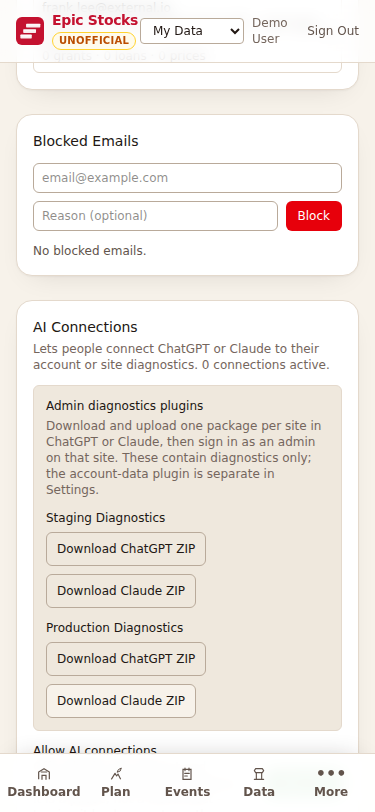
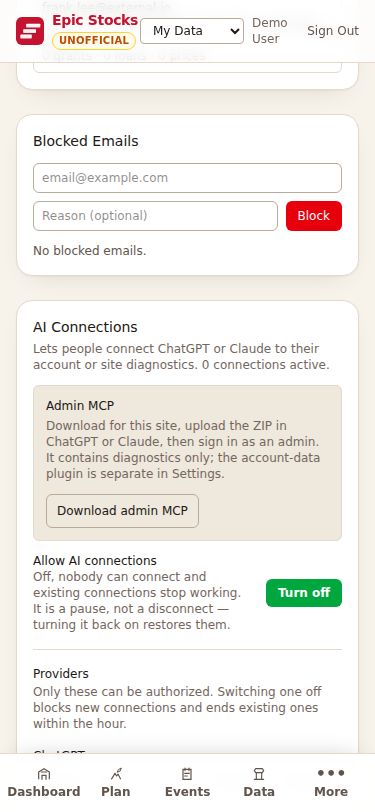
Make admin MCP download local to the current site

Changed region(s): [[0.088, 0.4926, 0.9093, 0.9544]]

diff --git a/frontend/src/scaffold/pages/admin/AiConnections.tsx b/frontend/src/scaffold/pages/admin/AiConnections.tsx
@@ -62,22 +62,12 @@ export function AiConnections({ onError }: { onError: (message: string) => void 
       </p>
 
       <div className="mt-3 rounded-md border border-cs-border bg-cs-raised p-3 text-xs">
-        <p className="font-medium text-cs-text">Admin diagnostics plugins</p>
-        <p className="mt-1 text-cs-muted">Download and upload one package per site in ChatGPT or Claude, then sign in as an admin on that site. These contain diagnostics only; the account-data plugin is separate in Settings.</p>
-        {(['staging', 'production'] as const).map(environment => (
-          <div key={environment} className="mt-3">
-            <p className="font-medium capitalize text-cs-text">{environment} diagnostics</p>
-            <div className="mt-1.5 flex flex-wrap gap-2">
-              {(['chatgpt', 'claude'] as const).map(platform => (
-                <a key={platform} href={`/api/admin/ai/plugin/${environment}/${platform}`}
-                  download={`epic-stocks-${environment}-admin-${platform}.zip`}
-                  className="rounded-md border border-cs-border-strong px-2.5 py-2 font-medium text-cs-text hover:bg-cs-base">
-                  Download {platform === 'chatgpt' ? 'ChatGPT' : 'Claude'} ZIP
-                </a>
-              ))}
-            </div>
-          </div>
-        ))}
+        <p className="font-medium text-cs-text">Admin MCP</p>
+        <p className="mt-1 text-cs-muted">Download for this site, upload the ZIP in ChatGPT or Claude, then sign in as an admin. It contains diagnostics only; the account-data plugin is separate in Settings.</p>
+        <a href="/api/admin/ai/plugin"
+          className="mt-3 inline-block rounded-md border border-cs-border-strong px-2.5 py-2 font-medium text-cs-text hover:bg-cs-base">
+          Download admin MCP
+        </a>
       </div>
 
       <div className="mt-3 flex items-center justify-between">

diff --git a/frontend/src/__tests__/AiConnections.test.tsx b/frontend/src/__tests__/AiConnections.test.tsx
@@ -33,16 +33,11 @@ beforeEach(() => {
 })
 
 describe('AiConnections', () => {
-  it('provides four separate admin-only plugin downloads', async () => {
+  it('provides one admin MCP download for this site', async () => {
     vi.spyOn(api, 'adminGetMcp').mockResolvedValue(SETTINGS)
     render(<AiConnections onError={() => {}} />)
-    await screen.findByText('Admin diagnostics plugins')
-    expect(screen.getAllByRole('link', { name: 'Download ChatGPT ZIP' }).map(a => a.getAttribute('href'))).toEqual([
-      '/api/admin/ai/plugin/staging/chatgpt', '/api/admin/ai/plugin/production/chatgpt',
-    ])
-    expect(screen.getAllByRole('link', { name: 'Download Claude ZIP' }).map(a => a.getAttribute('href'))).toEqual([
-      '/api/admin/ai/plugin/staging/claude', '/api/admin/ai/plugin/production/claude',
-    ])
+    await screen.findByText('Admin MCP')
+    expect(screen.getByRole('link', { name: 'Download admin MCP' })).toHaveAttribute('href', '/api/admin/ai/plugin')
   })
 
   it('groups hosts under the product name an admin recognises', async () => {

diff --git a/frontend/e2e/screenshots.spec.ts b/frontend/e2e/screenshots.spec.ts
@@ -142,10 +142,9 @@ test.describe('Screenshots', () => {
     await authedPage(page, MOBILE, 'light')
     await navigateTo(page, 'Admin')
     await page.waitForLoadState('networkidle')
-    const heading = page.getByText('Admin diagnostics plugins')
+    const heading = page.getByText('Admin MCP', { exact: true })
     await heading.scrollIntoViewIfNeeded()
-    await expect(page.getByRole('link', { name: 'Download ChatGPT ZIP' })).toHaveCount(2)
-    await expect(page.getByRole('link', { name: 'Download Claude ZIP' })).toHaveCount(2)
+    await expect(page.getByRole('link', { name: 'Download admin MCP' })).toHaveCount(1)
     await shoot(page, 'admin-ai-plugin-downloads-light-mobile')
   })
 

diff --git a/backend/tests/test_plugin_downloads.py b/backend/tests/test_plugin_downloads.py
@@ -14,7 +14,6 @@ def files(response):
     assert response.headers["content-type"] == "application/zip"
     assert response.headers["cache-control"] == "private, no-store"
     with zipfile.ZipFile(io.BytesIO(response.content)) as bundle:
-        assert len(bundle.namelist()) == (3 if "chatgpt" in response.headers["content-disposition"] else 2)
         return {path: json.loads(bundle.read(path)) for path in bundle.namelist() if path.endswith(".json")}
 
 
@@ -39,34 +38,49 @@ def test_account_package_is_production_only_and_requires_sign_in(client, platfor
         assert server["type"] == "http"
 
 
-@pytest.mark.parametrize("environment,base", [
-    ("staging", "https://staging.epic-stocks.com"),
-    ("production", "https://epic-stocks.com"),
+@pytest.mark.parametrize("domain,site", [
+    ("staging.epic-stocks.com", "staging"),
+    ("epic-stocks.com", "production"),
+    ("my-stocks.example.org", "my-stocks.example.org"),
 ])
-@pytest.mark.parametrize("platform", ["chatgpt", "claude"])
-def test_admin_package_is_separate_and_admin_only(client, environment, base, platform):
-    path = f"/api/admin/ai/plugin/{environment}/{platform}"
+def test_admin_package_is_for_this_site_and_admin_only(client, domain, site):
+    path = "/api/admin/ai/plugin"
     assert client.get(path).status_code == 401
     with patch.dict(os.environ, {"ADMIN_EMAIL": "admin@example.com"}):
         register_user(client, "regular@example.com")
         assert client.get(path).status_code == 403
         client.post("/api/auth/test-login", json={"email": "admin@example.com"})
-        contents = files(client.get(path))
-    config = contents["mcp.json" if platform == "chatgpt" else ".mcp.json"]
-    server = config["mcpServers"][f"epic-stocks-{environment}-admin"]
-    assert server["url"] == f"{base}/admin-mcp"
-    assert all(not item["url"].endswith("/mcp") for item in config["mcpServers"].values())
-    if platform == "chatgpt":
-        interface = contents["plugin.json"]["extensions"]["com.openai"]["interface"]
-        assert interface["capabilities"] == ["Read"]
-        assert "No personal account-data tools" in interface["longDescription"]
+    with patch.dict(os.environ, {"ADMIN_EMAIL": "admin@example.com", "DOMAIN": domain}):
+        response = client.get(path, headers={"Host": "untrusted.example.net"})
+        assert f'filename="epic-stocks-{site.replace(".", "-")}-admin.zip"' in response.headers["content-disposition"]
+        with zipfile.ZipFile(io.BytesIO(response.content)) as bundle:
+            assert set(bundle.namelist()) == {
+                "plugin.json", "mcp.json", "assets/icon.svg",
+                ".claude-plugin/plugin.json", ".mcp.json",
+            }
+        contents = files(response)
+    assert set(contents) == {"plugin.json", "mcp.json", ".claude-plugin/plugin.json", ".mcp.json"}
+    name = f"epic-stocks-{site.replace('.', '-')}-admin"
+    for config in (contents["mcp.json"], contents[".mcp.json"]):
+        assert config["mcpServers"][name]["url"] == f"https://{domain}/admin-mcp"
+        assert all(not item["url"].endswith("/mcp") for item in config["mcpServers"].values())
+    interface = contents["plugin.json"]["extensions"]["com.openai"]["interface"]
+    assert interface["capabilities"] == ["Read"]
+    assert "No personal account-data tools" in interface["longDescription"]
 
 
 def test_unknown_package_options_are_rejected(client):
     with patch.dict(os.environ, {"ADMIN_EMAIL": "admin@example.com"}):
         register_user(client, "admin@example.com")
         assert client.get("/api/ai/plugin/other").status_code == 422
-        assert client.get("/api/admin/ai/plugin/other/claude").status_code == 422
+        assert client.get("/api/admin/ai/plugin/other").status_code == 404
+
+
+def test_admin_package_refuses_missing_site_domain(client):
+    with patch.dict(os.environ, {"ADMIN_EMAIL": "admin@example.com"}):
+        register_user(client, "admin@example.com")
+    with patch.dict(os.environ, {"ADMIN_EMAIL": "admin@example.com", "DOMAIN": ""}):
+        assert client.get("/api/admin/ai/plugin").status_code == 503
 
 
 def test_fork_package_uses_its_configured_domain(client):

diff --git a/backend/scaffold/routers/plugin_downloads.py b/backend/scaffold/routers/plugin_downloads.py
@@ -8,7 +8,7 @@ import zipfile
 from enum import Enum
 from pathlib import Path
 
-from fastapi import APIRouter, Depends
+from fastapi import APIRouter, Depends, HTTPException
 from fastapi.responses import Response
 
 from scaffold.auth import get_admin_user, get_current_user
@@ -25,12 +25,10 @@ class Platform(str, Enum):
     claude = "claude"
 
 
-class Environment(str, Enum):
-    staging = "staging"
-    production = "production"
-
-
 def package_files(platform: str, name: str, description: str, url: str) -> dict[str, dict | str]:
+    if platform == "admin":
+        return {**package_files("chatgpt", name, description, url),
+                **package_files("claude", name, description, url)}
     if platform == "chatgpt":
         backend_root = Path(__file__).resolve().parents[2]
         source = backend_root.parent / "plugins" / "epic-stocks"
@@ -84,24 +82,28 @@ def archive(platform: str, name: str, description: str, url: str) -> Response:
     with zipfile.ZipFile(output, "w", compression=zipfile.ZIP_DEFLATED) as bundle:
         for path, value in package_files(platform, name, description, url).items():
             bundle.writestr(path, json.dumps(value, indent=2) + "\n" if isinstance(value, dict) else value)
+    filename = name if platform == "admin" else f"{name}-{platform}"
     return Response(
         content=output.getvalue(),
         media_type="application/zip",
         headers={
-            "Content-Disposition": f'attachment; filename="{name}-{platform}.zip"',
+            "Content-Disposition": f'attachment; filename="{filename}.zip"',
             "Cache-Control": "private, no-store",
             "X-Content-Type-Options": "nosniff",
         },
     )
 
 
-def account_origin() -> str:
+def site_origin() -> str | None:
     domain = os.getenv("DOMAIN", "").strip().lower()
-    if domain == "staging.epic-stocks.com":
-        return PRODUCTION
     if domain and re.fullmatch(r"[a-z0-9-]+(?:\.[a-z0-9-]+)+", domain):
         return f"https://{domain}"
-    return PRODUCTION
+    return None
+
+
+def account_origin() -> str:
+    origin = site_origin()
+    return PRODUCTION if origin == STAGING else origin or PRODUCTION
 
 
 @router.get("/api/ai/plugin/{platform}")
@@ -110,10 +112,13 @@ def account_plugin(platform: Platform, user: User = Depends(get_current_user)):
     return archive(platform.value, "epic-stocks", "Epic Stocks — account data", f"{account_origin()}/mcp")
 
 
-@router.get("/api/admin/ai/plugin/{environment}/{platform}")
-def admin_plugin(environment: Environment, platform: Platform,
-                 admin: User = Depends(get_admin_user)):
-    base = {Environment.staging: STAGING, Environment.production: PRODUCTION}[environment]
-    return archive(platform.value, f"epic-stocks-{environment.value}-admin",
-                   f"Epic Stocks {environment.value.title()} Admin — diagnostics only",
-                   f"{base}/admin-mcp")
+@router.get("/api/admin/ai/plugin")
+def admin_plugin(admin: User = Depends(get_admin_user)):
+    origin = site_origin()
+    if origin is None:
+        raise HTTPException(status_code=503, detail="Site domain is not configured")
+    site = ("staging" if origin == STAGING else
+            "production" if origin == PRODUCTION else origin.removeprefix("https://"))
+    return archive("admin", f"epic-stocks-{site.replace('.', '-')}-admin",
+                   f"Epic Stocks {site.title()} Admin — diagnostics only",
+                   f"{origin}/admin-mcp")

diff --git a/README.md b/README.md
@@ -747,7 +747,7 @@ Click any user in the list to open a detail card:
 
 Admin → **AI Connections** controls whether people can connect ChatGPT or Claude to their own accounts, and which providers are allowed to. Both were environment variables at first, which made "stop accepting connections from ChatGPT" a redeploy; they are policy, so they live in the database.
 
-![Separate staging and production diagnostic plugin downloads on mobile](screenshots/admin-ai-plugin-downloads-light-mobile.png)
+![Admin MCP download for the current site on mobile](screenshots/admin-ai-plugin-downloads-light-mobile.png)
 
 **Separate read-only diagnostic MCP.** The admin connector is a different MCP server and OAuth issuer from the account-data connector. Set up three named connections in your assistant:
 
@@ -757,8 +757,8 @@ Admin → **AI Connections** controls whether people can connect ChatGPT or Clau
 | Epic Stocks production diagnostics | `https://epic-stocks.com/admin-mcp` | `admin:read` on production |
 | Epic Stocks account data | `https://epic-stocks.com/mcp` | Personal data scopes on production only |
 
-1. On your phone, open **Admin → AI Connections** and download the **staging diagnostics** ZIP for ChatGPT or Claude. Upload it under **Plugins → + → Upload plugin** in ChatGPT or **Customize → Plugins** in Claude. Sign in to **staging** as an email in its `ADMIN_EMAIL` and approve the admin consent page. Only `admin:read` is requested; this connection has no equity tools.
-2. After the admin MCP is deployed to production, download and upload the **production diagnostics** ZIP as a second plugin, signing in to production. Keep personal account data in the separate production plugin from Settings; never use staging for personal data.
+1. On your phone, open **staging's Admin → AI Connections** and tap **Download admin MCP**. The single ZIP contains both ChatGPT and Claude manifests. Upload it under **Plugins → + → Upload plugin** in ChatGPT or **Customize → Plugins** in Claude. Sign in to **staging** as an email in its `ADMIN_EMAIL` and approve the admin consent page. Only `admin:read` is requested; this connection has no equity tools.
+2. After the admin MCP is deployed to production, open **production's Admin → AI Connections** and download its **admin MCP** ZIP as a second plugin, signing in to production. Each site generates a package for its own configured `DOMAIN`; staging cannot issue a production diagnostics package. Keep personal account data in the separate production plugin from Settings; never use staging for personal data.
 3. Ask the assistant to call `admin_deployment_status`, `admin_system_metrics`, or `admin_recent_errors` on each named diagnostic connection. For a specific error id, `admin_error_stack` returns file names, line numbers and functions without traceback source lines. Every answer identifies the API build and environment; scheduler due times and timestamps are UTC. Confirm the returned environment before comparing results.
 4. Revoke either diagnostic connector on that site's **Settings → AI Connections** page. Removing an email from `ADMIN_EMAIL` blocks admin tools on the next request. The two sites keep independent connection and audit histories.
 

diff --git a/OPERATIONS.md b/OPERATIONS.md
@@ -104,7 +104,7 @@ request never reached the app; inspect its Ray ID in Security Events.
 
 1. On staging, open **Admin → AI Connections** on your phone. Check that
    **Allow AI connections** and the provider you will use are enabled.
-2. Download **staging diagnostics → ChatGPT ZIP** or **Claude ZIP**. On a phone,
+2. Tap **Download admin MCP** on staging. On a phone,
    open ChatGPT's [Plugins web page](https://chatgpt.com/plugins) and use
    **+ → Upload plugin**, or Claude's **Customize → Plugins → Upload**. Select
    the ZIP from Files, review the connection, and proceed to sign-in. The
@@ -114,11 +114,11 @@ request never reached the app; inspect its Ray ID in Security Events.
    for `admin_deployment_status`. Confirm it reports `staging` and the expected
    API build. This completes the authenticated check that unauthenticated
    probes cannot perform.
-4. Only **after the admin MCP is deployed to production**, download the
-   **production diagnostics** ZIP and install it as a second plugin. Sign in to production and confirm its
+4. Only **after the admin MCP is deployed to production**, open **production's Admin → AI Connections**, download its
+   **admin MCP** ZIP and install it as a second plugin. Sign in to production and confirm its
    environment is `production`. The personal-data connector remains the
    separate production plugin downloaded from Settings → AI Connections.
-5. Phone acceptance: confirm both hosts accept their ZIP, complete OAuth,
+5. Phone acceptance: confirm both hosts accept the combined ZIP, complete OAuth,
    discover only the intended tools and keep staging/production separate.
    A passing package-shape test alone does not establish host compatibility.
 
